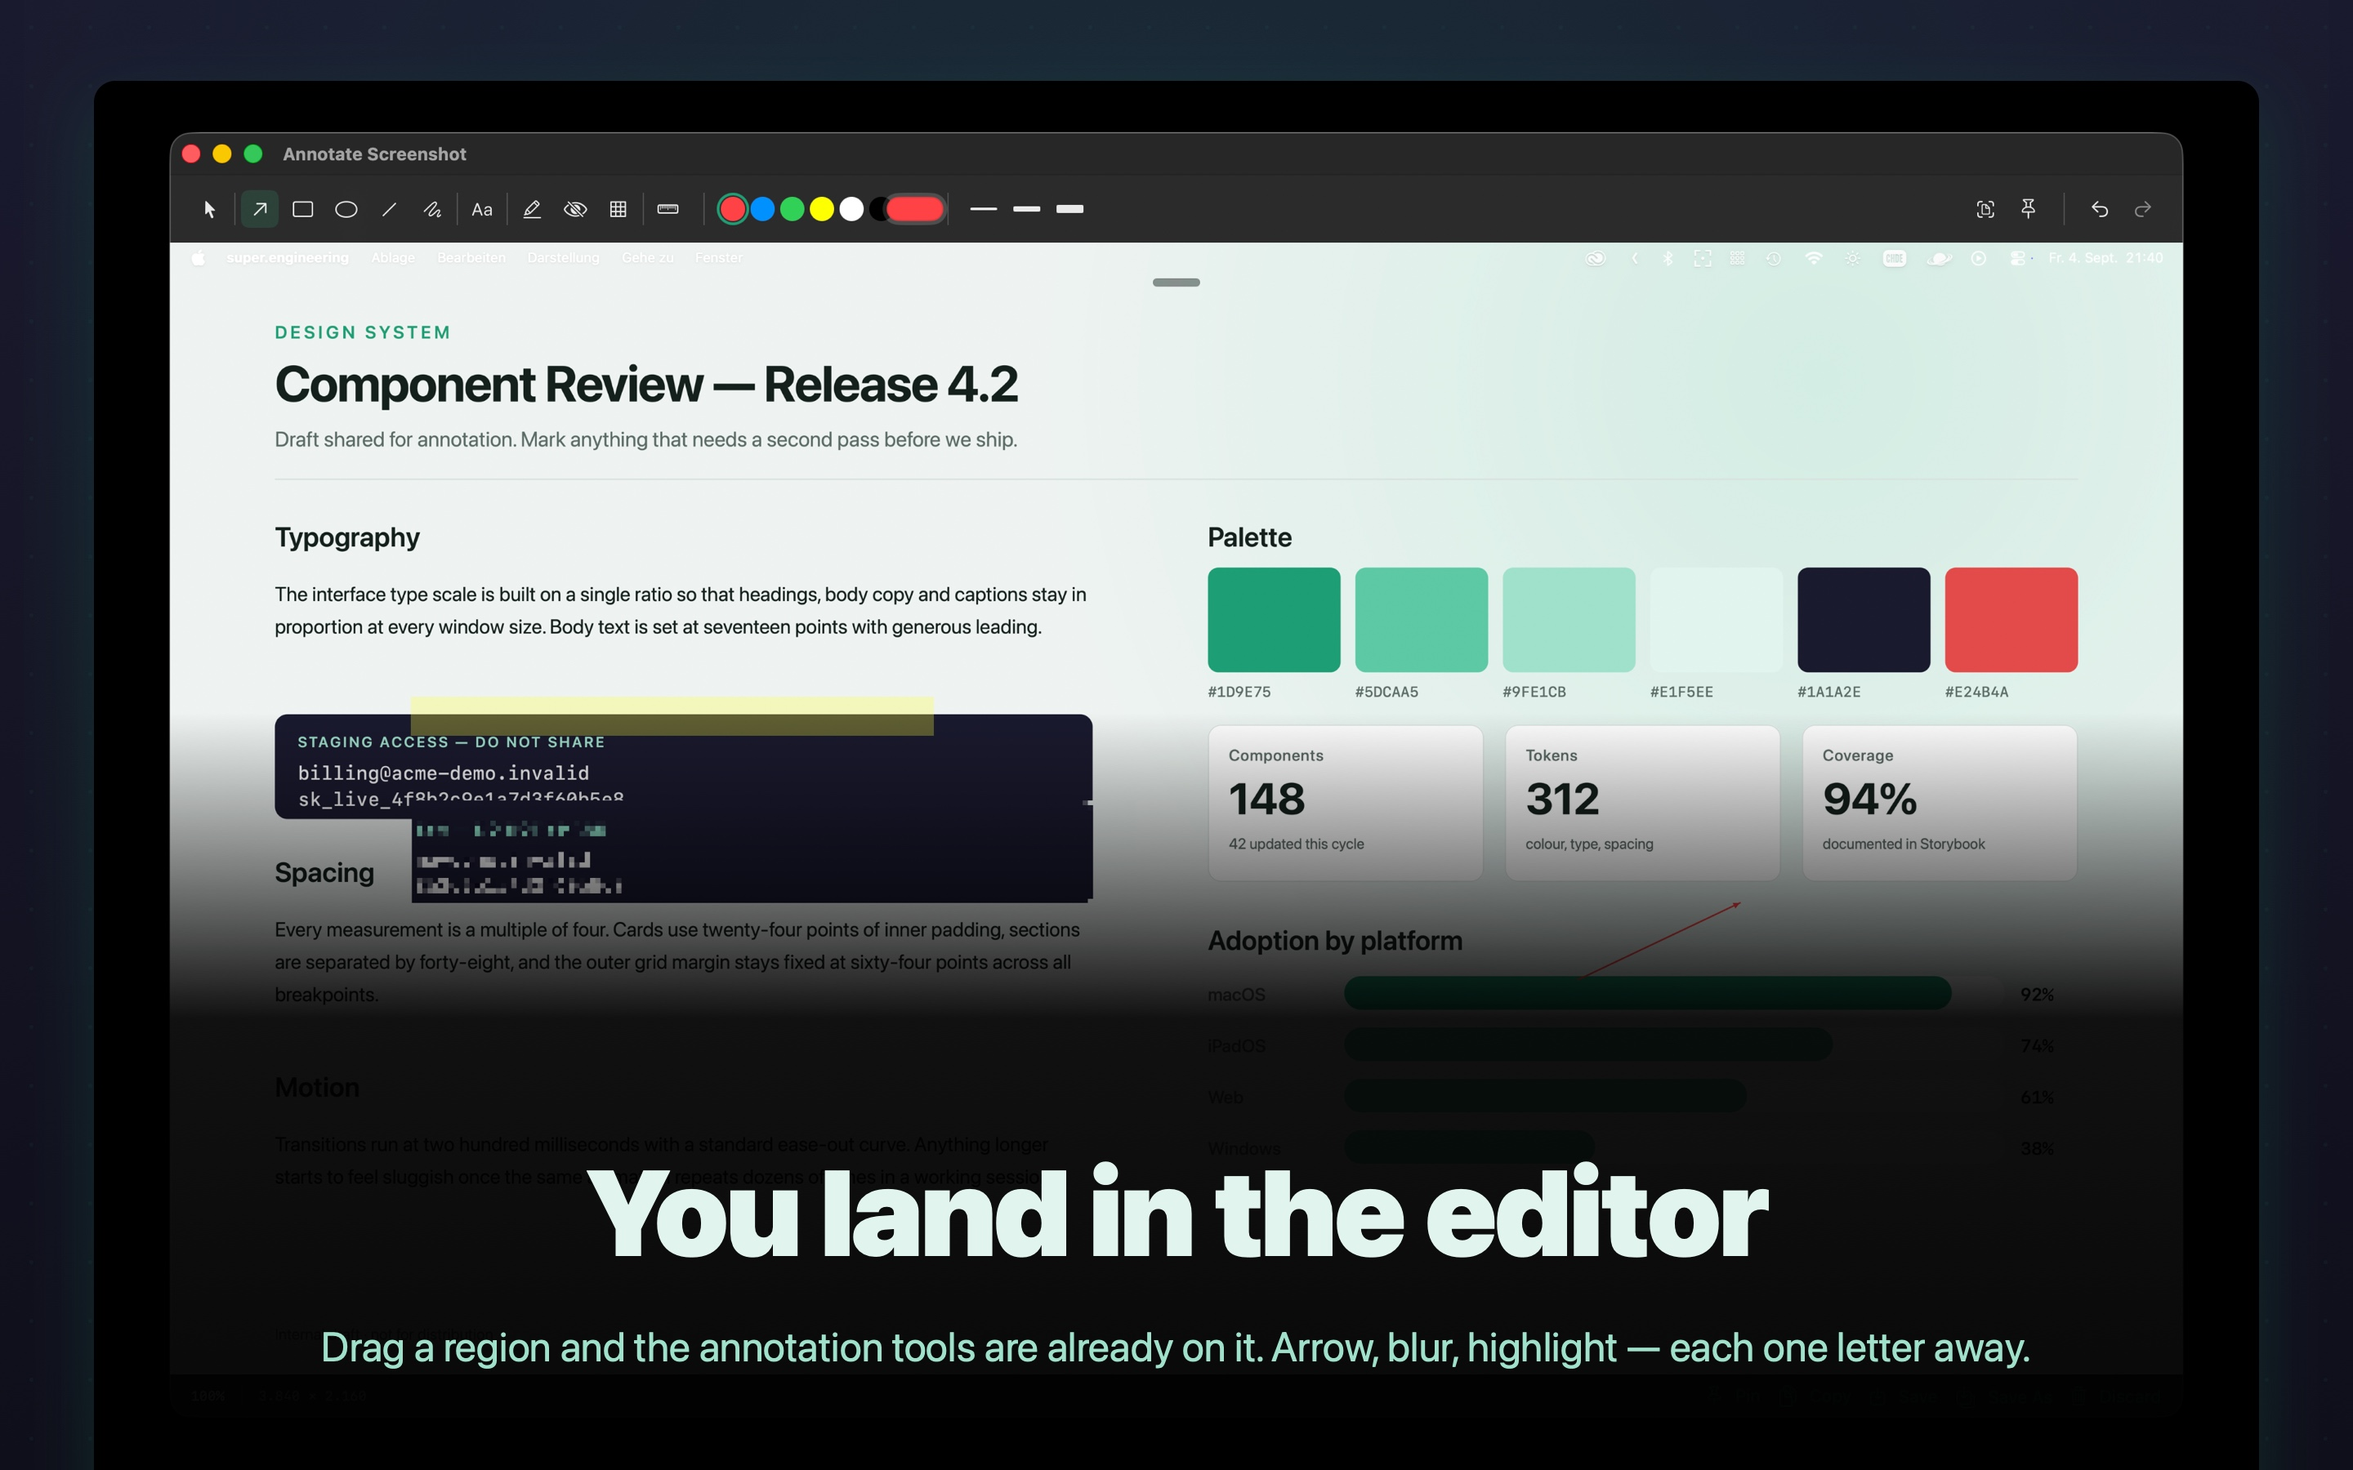
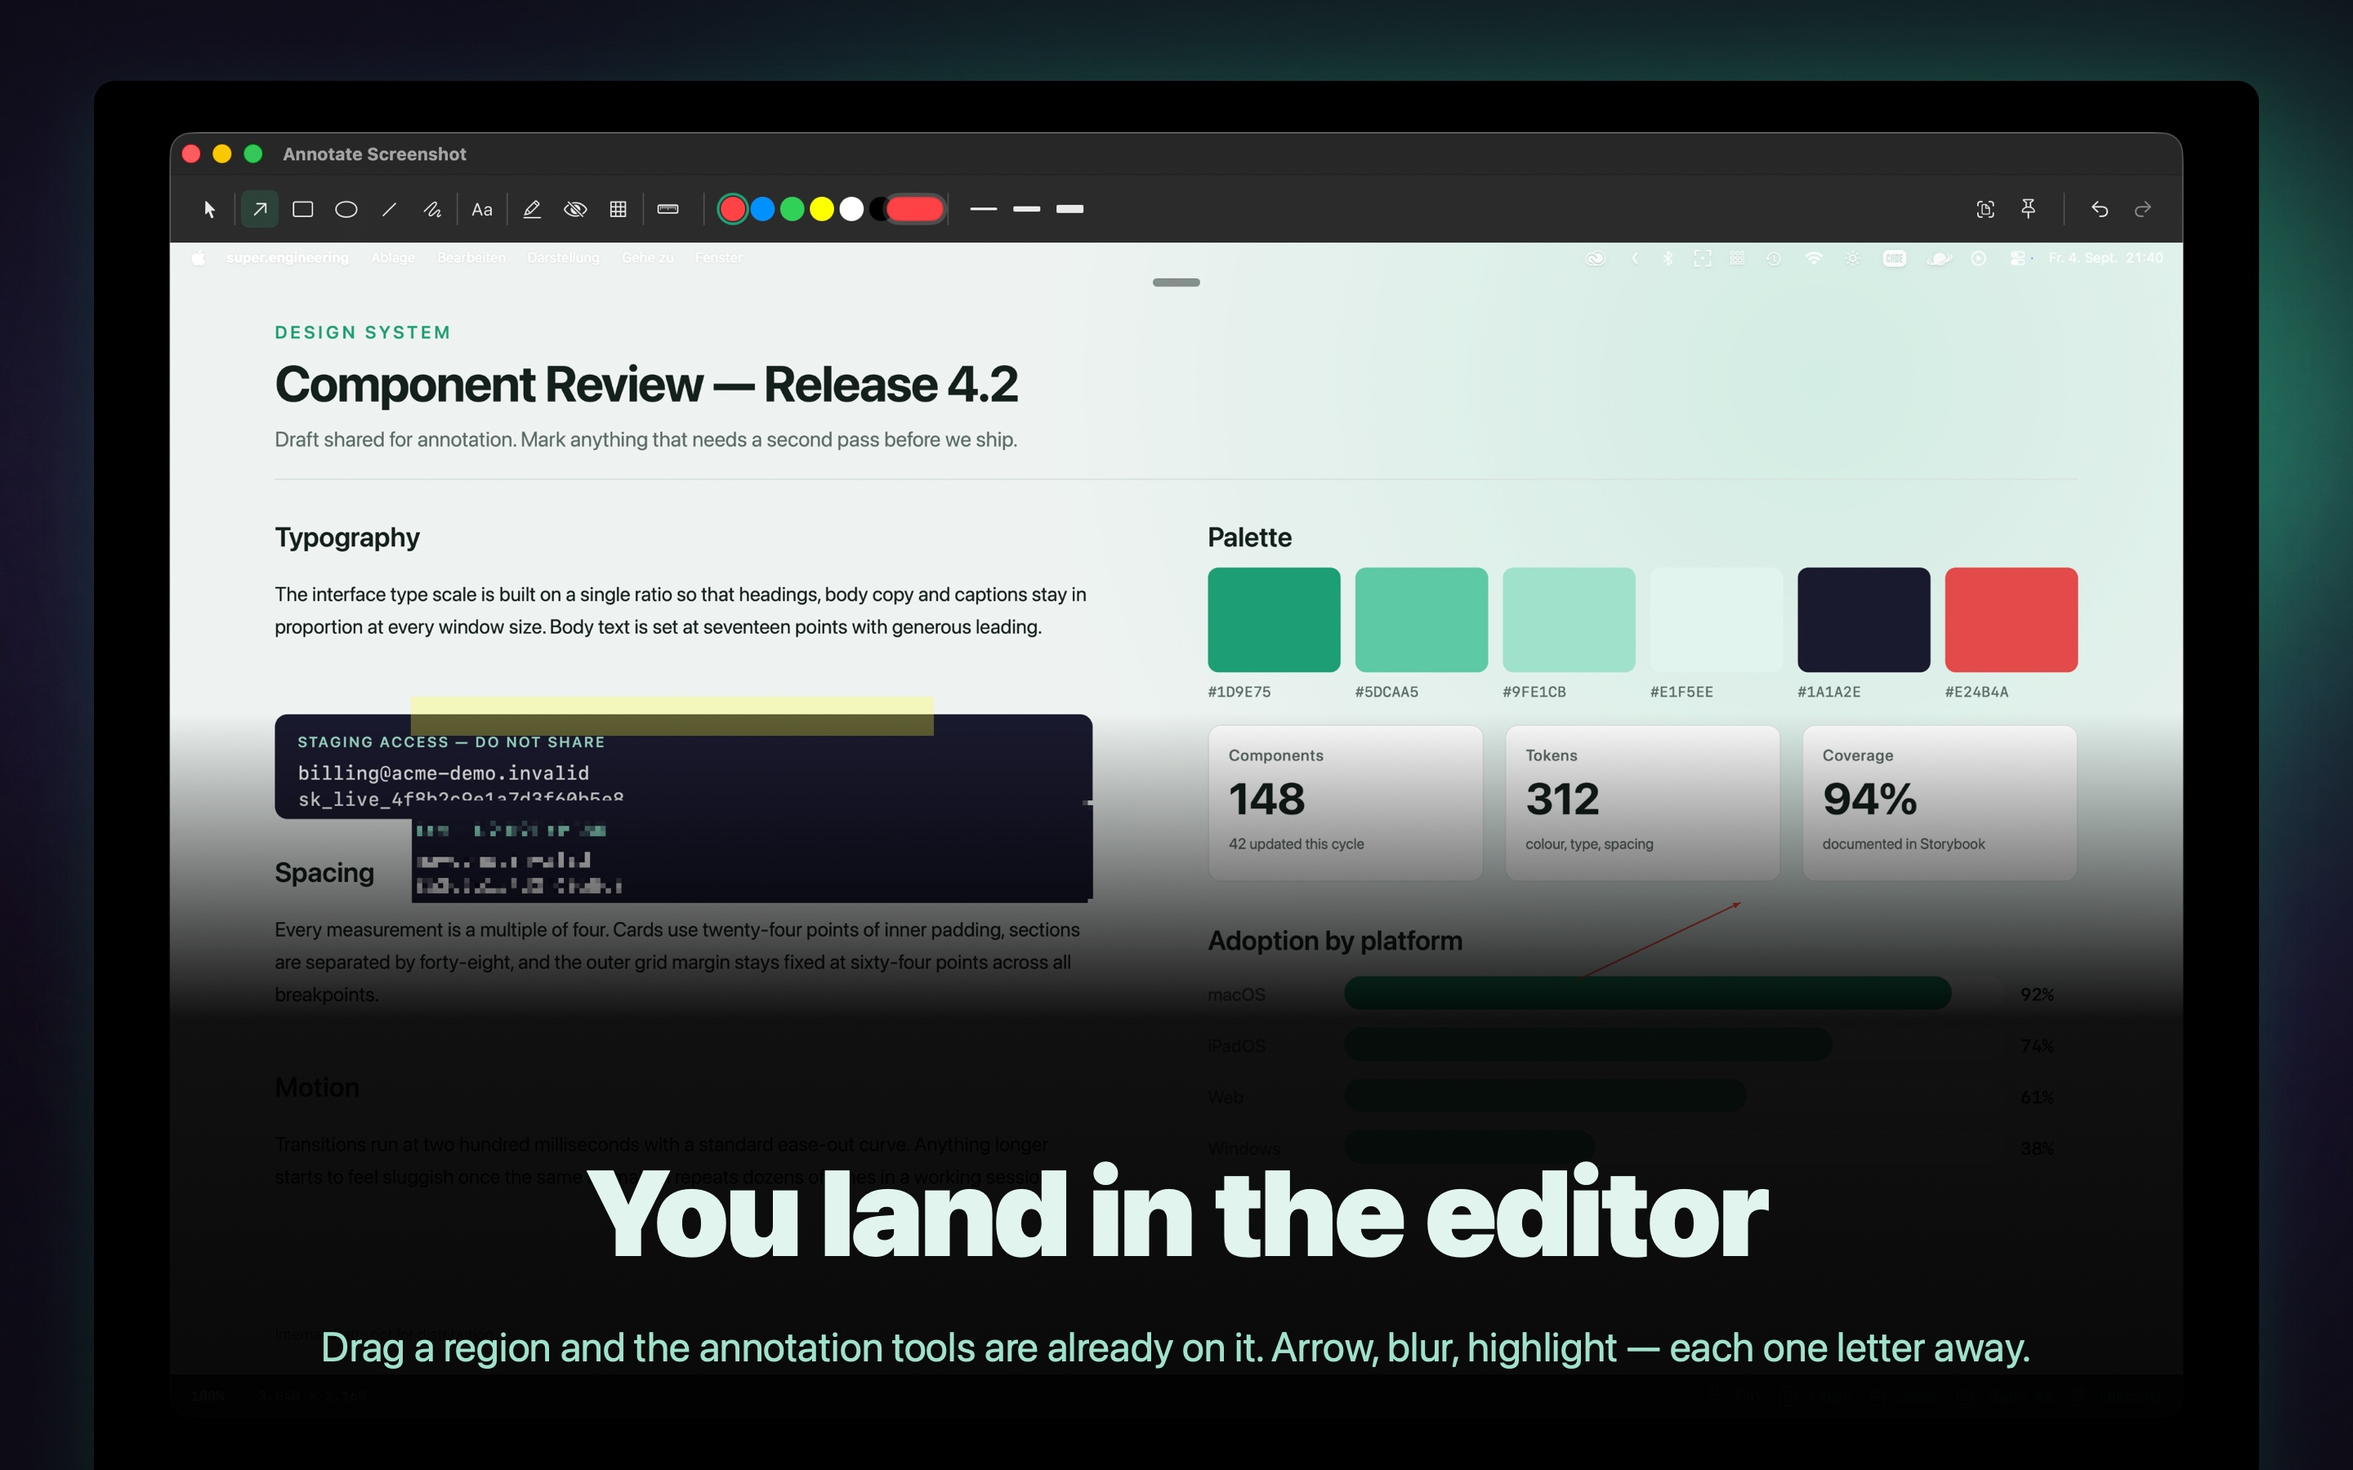
Give the store shots a real backdrop instead of a gradient
compose.swift drew the ground from two colours plus a dot grid. That carried
one tile; five of them side by side read as a template. The ground is now an
image from assets/backdrops/, sized 3200x1800 — exactly what 2880x1800 needs
to fill without upscaling — with a veil in the base colour along the two edges
where headlines sit. text-top puts one at the top, frame-top at the bottom, and
an image ground, unlike a gradient, is not equally bright everywhere.

The demo canvas gained an Imagery section in place of its third body paragraph.
Two paragraphs are already more OCR material than any capture region uses, and
a design system review showing no imagery reads like a wireframe rather than a
document somebody would annotate.

Both generators stop when a plate is missing rather than falling back: a drawn
placeholder looks close enough to reach the store unnoticed, and tiles whose
ground differs would sit next to each other there.

The plates are generated (Higgsfield, Nano Banana Pro). The line that matters:
generated is what sits behind and inside the window, never the window. Every
pixel of the app's own surface still comes from capture.sh — a painted UI would
promise an app that does not exist (Guideline 2.3).

Also documents why screen recording kept not sticking: build-appstore.sh signs
ad-hoc, TCC identifies such an app by its CDHash, and that changes with every
build. Yesterday's grant belongs to yesterday's app while the new one sits
[…]

Changed region(s): [[0.9375, 0.0933, 1.0, 0.5289]]

diff --git a/AppStore/tools/compose.swift b/AppStore/tools/compose.swift
@@ -40,6 +40,7 @@ let werkzeuge = URL(fileURLWithPath: CommandLine.arguments[0])
 let appStore = werkzeuge.deletingLastPathComponent()
 let roh = appStore.appendingPathComponent("screenshots/raw")
 let ausgabe = appStore.appendingPathComponent("screenshots")
+let gruende = appStore.appendingPathComponent("assets/backdrops")
 
 // MARK: - Markenpalette (Spiegel von Sources/MikaPlusColors.swift)
 //
@@ -134,34 +135,58 @@ let SPRACHE: [String: String] = ["en-US": "en"]
 
 // MARK: - Zeichenhilfen
 
-func verlauf(_ von: NSColor, _ nach: NSColor, in rect: NSRect, winkel: CGFloat = -90) {
-    NSGradient(colors: [von, nach])?.draw(in: rect, angle: winkel)
+/// Lädt einen Bildgrund und behält ihn — beide Motive eines Laufs teilen sich
+/// dieselbe Datei.
+var grundCache: [String: NSImage] = [:]
+
+func grundbild(_ thema: String) -> NSImage {
+    if let da = grundCache[thema] { return da }
+    let datei = gruende.appendingPathComponent("\(thema).jpg")
+    guard let bild = NSImage(contentsOf: datei) else {
+        fehler("Bildgrund fehlt: assets/backdrops/\(thema).jpg")
+    }
+    grundCache[thema] = bild
+    return bild
 }
 
-/// Punktraster und ein weicher Schein hinter der Headline — gibt der leeren
-/// Fläche Struktur, ohne vom Fenster abzulenken.
-func hintergrund(_ p: Palette, _ l: Layout) {
-    let alles = NSRect(x: 0, y: 0, width: l.w, height: l.h)
-    verlauf(p.grundOben, p.grundUnten, in: alles)
-
+/// Zeichnet ein Bild formatfüllend: Es deckt `rect` ganz ab, das Seitenverhältnis
+/// bleibt, überstehende Seiten werden mittig beschnitten.
+func fuellend(_ bild: NSImage, in rect: NSRect) {
+    let q = bild.size
+    guard q.width > 0, q.height > 0 else { return }
+    let skala = max(rect.width / q.width, rect.height / q.height)
+    let z = NSSize(width: q.width * skala, height: q.height * skala)
     NSGraphicsContext.current?.saveGraphicsState()
-    NSGradient(colors: [teal.withAlphaComponent(0.16), teal.withAlphaComponent(0)])?
-        .draw(in: NSRect(x: l.w/2 - l.w*0.49, y: l.h - l.h*0.67,
-                         width: l.w*0.98, height: l.h*0.78),
-              relativeCenterPosition: .zero)
+    NSBezierPath(rect: rect).addClip()
+    bild.draw(in: NSRect(x: rect.midX - z.width / 2, y: rect.midY - z.height / 2,
+                         width: z.width, height: z.height),
+              from: .zero, operation: .sourceOver, fraction: 1)
     NSGraphicsContext.current?.restoreGraphicsState()
+}
 
-    teal.withAlphaComponent(0.07).setFill()
-    let schritt = round(l.w * 0.025)
-    var y = schritt / 2
-    while y < l.h {
-        var x = schritt / 2
-        while x < l.w {
-            NSBezierPath(ovalIn: NSRect(x: x, y: y, width: l.w*0.0017, height: l.w*0.0017)).fill()
-            x += schritt
-        }
-        y += schritt
-    }
+/// Der Grund: ein Bild aus `assets/backdrops/`, darüber ein Schleier an den
+/// beiden Kanten, an denen Text stehen kann.
+///
+/// Der Schleier ist kein Schmuck. `text-top` setzt die Headline an den oberen
+/// Rand, `frame-top` an den unteren, und ein Bildgrund ist dort — anders als der
+/// frühere Verlauf — nicht überall gleich hell. Ohne ihn hinge die Lesbarkeit
+/// davon ab, wo das Grundbild zufällig seine helle Stelle hat.
+///
+/// Ein Rückfall auf einen gezeichneten Verlauf, wenn die Datei fehlt, wäre hier
+/// falsch: Er sähe dem Bildgrund flüchtig ähnlich genug, dass er unbemerkt in den
+/// Store liefe — und dort stünden zwei Motive nebeneinander, deren Grund sich
+/// unterscheidet. `grundbild` bricht deshalb ab.
+func hintergrund(_ thema: String, _ p: Palette, _ l: Layout) {
+    let alles = NSRect(x: 0, y: 0, width: l.w, height: l.h)
+    fuellend(grundbild(thema), in: alles)
+
+    let saum = round(l.h * 0.34)
+    let schleier = [p.grundUnten.withAlphaComponent(0.62),
+                    p.grundUnten.withAlphaComponent(0)]
+    NSGradient(colors: schleier)?
+        .draw(in: NSRect(x: 0, y: l.h - saum, width: l.w, height: saum), angle: -90)
+    NSGradient(colors: schleier)?
+        .draw(in: NSRect(x: 0, y: 0, width: l.w, height: saum), angle: 90)
 }
 
 func mitSchatten(_ farbe: NSColor, radius: CGFloat, versatz: CGFloat, _ block: () -> Void) {
@@ -458,7 +483,7 @@ for locale in locales {
         NSGraphicsContext.saveGraphicsState()
         NSGraphicsContext.current = NSGraphicsContext(bitmapImageRep: rep)
         let p = palette(motiv.theme)
-        hintergrund(p, layout)
+        hintergrund(motiv.theme, p, layout)
         rendere(bild, motiv, text, p, layout)
         NSGraphicsContext.restoreGraphicsState()
 

diff --git a/scripts/GenerateDemoCanvas.swift b/scripts/GenerateDemoCanvas.swift
@@ -12,6 +12,7 @@
 //   - hard-edged cards          -> measurement tool
 //   - a "sensitive" credentials row -> blur / pixelate demo
 //   - open space                -> arrows, highlights, text annotations
+//   - photographic plates       -> a document that reads like a real one
 //
 // Usage: swift scripts/GenerateDemoCanvas.swift
 
@@ -100,6 +101,41 @@ func draw(_ text: String, in rect: NSRect, _ attributes: [NSAttributedString.Key
     NSAttributedString(string: text, attributes: attributes).draw(in: rect)
 }
 
+// MARK: - Photography
+
+// The only pixels on this canvas that aren't drawn here. Everything else is code
+// and therefore reproducible; these two plates live in the repository instead.
+let imageryDir = URL(fileURLWithPath: FileManager.default.currentDirectoryPath)
+    .appendingPathComponent("AppStore/assets/imagery")
+
+/// Loads one imagery plate, or stops.
+///
+/// No silent fallback to a drawn placeholder: the canvas is the stage for every
+/// store screenshot, and a run that quietly produced a different document would
+/// ship that difference to the App Store without anyone noticing.
+func plate(_ name: String) -> NSImage {
+    let url = imageryDir.appendingPathComponent("\(name).jpg")
+    guard let image = NSImage(contentsOf: url) else {
+        print("ERROR: imagery plate missing: \(url.path)")
+        exit(1)
+    }
+    return image
+}
+
+/// Draws an image so it covers `rect` completely, cropping the overflowing axis
+/// centred. The plate keeps its aspect ratio whatever the slot's ratio is.
+func drawFilling(_ image: NSImage, in rect: NSRect, radius: CGFloat) {
+    let size = image.size
+    guard size.width > 0, size.height > 0 else { return }
+    let scale = max(rect.width / size.width, rect.height / size.height)
+    let w = size.width * scale, h = size.height * scale
+    NSGraphicsContext.current?.saveGraphicsState()
+    NSBezierPath(roundedRect: rect, xRadius: radius, yRadius: radius).addClip()
+    image.draw(in: NSRect(x: rect.midX - w / 2, y: rect.midY - h / 2, width: w, height: h),
+               from: .zero, operation: .sourceOver, fraction: 1.0)
+    NSGraphicsContext.current?.restoreGraphicsState()
+}
+
 // MARK: - Canvas
 
 func generateCanvas() -> NSImage {
@@ -185,16 +221,23 @@ func generateCanvas() -> NSImage {
     draw(para2, in: tl(colX, 1270, colW, 260),
          attrs(size: 38, weight: .regular, color: ink, lineHeight: 62))
 
-    draw("Motion", in: tl(colX, 1580, colW, 60),
+    // --- Imagery (the photographic plates)
+    //
+    // Took the place of a third body paragraph. Two paragraphs above are already
+    // more OCR material than any capture region uses, and a design system review
+    // that shows no imagery at all reads like a wireframe, not like a document
+    // somebody would actually annotate.
+    draw("Imagery", in: tl(colX, 1560, colW, 60),
          attrs(size: 52, weight: .semibold, color: ink))
 
-    let para3 = """
-    Transitions run at two hundred milliseconds with a standard ease-out curve. \
-    Anything longer starts to feel sluggish once the same animation repeats \
-    dozens of times in a working session.
-    """
-    draw(para3, in: tl(colX, 1680, colW, 260),
-         attrs(size: 38, weight: .regular, color: ink, lineHeight: 62))
+    let plateGap: CGFloat = 40
+    let plateW = (colW - plateGap) / 2
+    let plateH: CGFloat = 370
+    for (i, name) in ["a", "b"].enumerated() {
+        let rect = tl(colX + CGFloat(i) * (plateW + plateGap), 1650, plateW, plateH)
+        drawFilling(plate(name), in: rect, radius: 24)
+        strokeRounded(rect, radius: 24, color: hairline, width: 2)
+    }
 
     // MARK: Right column — swatches, cards, chart
 

diff --git a/AppStore/README.md b/AppStore/README.md
@@ -181,6 +181,60 @@ die Direktfassung und bekommt einen eigenen TCC-Eintrag; beides lässt sich nich
 skripten. `capture.sh` prüft es und bricht mit einer Anleitung ab, statt fünf Bilder mit
 einem Einrichtungsfenster darauf zu erzeugen.
 
+**Vor der Freigabe echt signieren — sonst hält sie keinen Tag.** `build-appstore.sh`
+signiert ad-hoc, und TCC erkennt eine ad-hoc signierte App an ihrem CDHash. Der ändert
+sich bei **jedem** Bau: Die gestern erteilte Freigabe gilt der App von gestern, die neu
+gebaute steht als weiterer, gleichnamiger Eintrag daneben. In der Liste sind sie nicht
+auseinanderzuhalten — beide heißen „Mika+ScreenSnap", beide tragen
+`lu.daumedia.screensnap`. Wer den falschen schaltet, sieht keinen Fehler, nur ein
+Einrichtungsfenster, das nicht weggeht. (Bei einem Lauf lagen drei solcher Leichen
+übereinander.)
+
+Deshalb vor der Aufnahme einmal mit einem echten Zertifikat übersignieren — dann
+identifiziert TCC die App über Team- und Bundle-ID, und die Freigabe überlebt jeden
+weiteren Bau:
+
+```bash
+codesign --force --sign "Developer ID Application: … (CWJM4J4HFN)" \
+    --entitlements Resources/MikaScreenSnap-AppStore.entitlements \
+    --options runtime build-appstore/Mika+ScreenSnap.app
+```
+
+Die Sandbox bleibt dabei an — die Entitlements werden mitgegeben. Für die Einreichung
+ändert das nichts: `package-appstore.sh` übersigniert ohnehin mit *Apple Distribution*.
+Stehen schon mehrere Karteileichen in der Liste, räumt
+`tccutil reset ScreenCapture lu.daumedia.screensnap` sie alle ab — danach fordert die App
+die Freigabe einmal neu an, und es gibt genau einen Eintrag. Es trifft auch die
+Direktfassung; die fragt beim nächsten Start neu.
+
+### Bildmaterial
+
+Zwei Sorten Bild liegen unter `assets/`, und beide sind **generiert** (Higgsfield,
+Nano Banana Pro) — nicht fotografiert und nicht aufgenommen:
+
+| Datei | Wo es landet | Wozu |
+|---|---|---|
+| `assets/backdrops/dark.jpg`, `light.jpg` | der Grund jeder Kachel, `compose.swift` | 3200 × 1800 — genau das, was 2880 × 1800 formatfüllend braucht, damit nichts hochskaliert wird |
+| `assets/imagery/a.jpg`, `b.jpg` | der Abschnitt *Imagery* der Demo-Leinwand | gibt dem fiktiven Dokument Bildmaterial, damit es sich wie ein Dokument liest und nicht wie ein Wireframe |
+
+**Wo die Grenze verläuft.** Generiert werden darf, was *hinter* und *im* Fenster liegt:
+der Grund der Kachel und der Inhalt des erfundenen Dokuments. Die Oberfläche der
+Anwendung selbst wird ausschließlich aufgenommen — jedes Pixel des Fensters kommt aus
+`capture.sh`. Ein gemaltes Fenster verspräche eine Anwendung, die es nicht gibt
+(Guideline 2.3, Accurate Metadata), und genau daran hängt auch die Regel, dass aus der
+Store- und nicht aus der Direktfassung aufgenommen wird.
+
+**Warum der Grund ein Bild ist und kein Verlauf.** Vorher zeichnete `compose.swift` ihn
+aus zwei Farben plus Punktraster. Das trug eine Kachel, aber fünf nebeneinander sahen
+nach Vorlage aus. Fehlt eine der beiden Dateien, bricht `compose.swift` ab und fällt
+**nicht** auf den alten Verlauf zurück: Der sähe flüchtig ähnlich genug, dass er
+unbemerkt in den Store liefe — und dort stünden dann Motive nebeneinander, deren Grund
+sich unterscheidet. `GenerateDemoCanvas.swift` hält es mit den Imagery-Platten genauso.
+
+Über dem Bildgrund liegt an Ober- und Unterkante ein Schleier in der Grundfarbe. Er ist
+kein Schmuck: `text-top` setzt die Headline an den oberen Rand, `frame-top` an den
+unteren, und ein Bildgrund ist dort — anders als ein Verlauf — nicht überall gleich hell.
+
 ### Texte ändern
 
 Headlines und Sublines stehen in `tools/shots.json`, nach Sprache getrennt.
